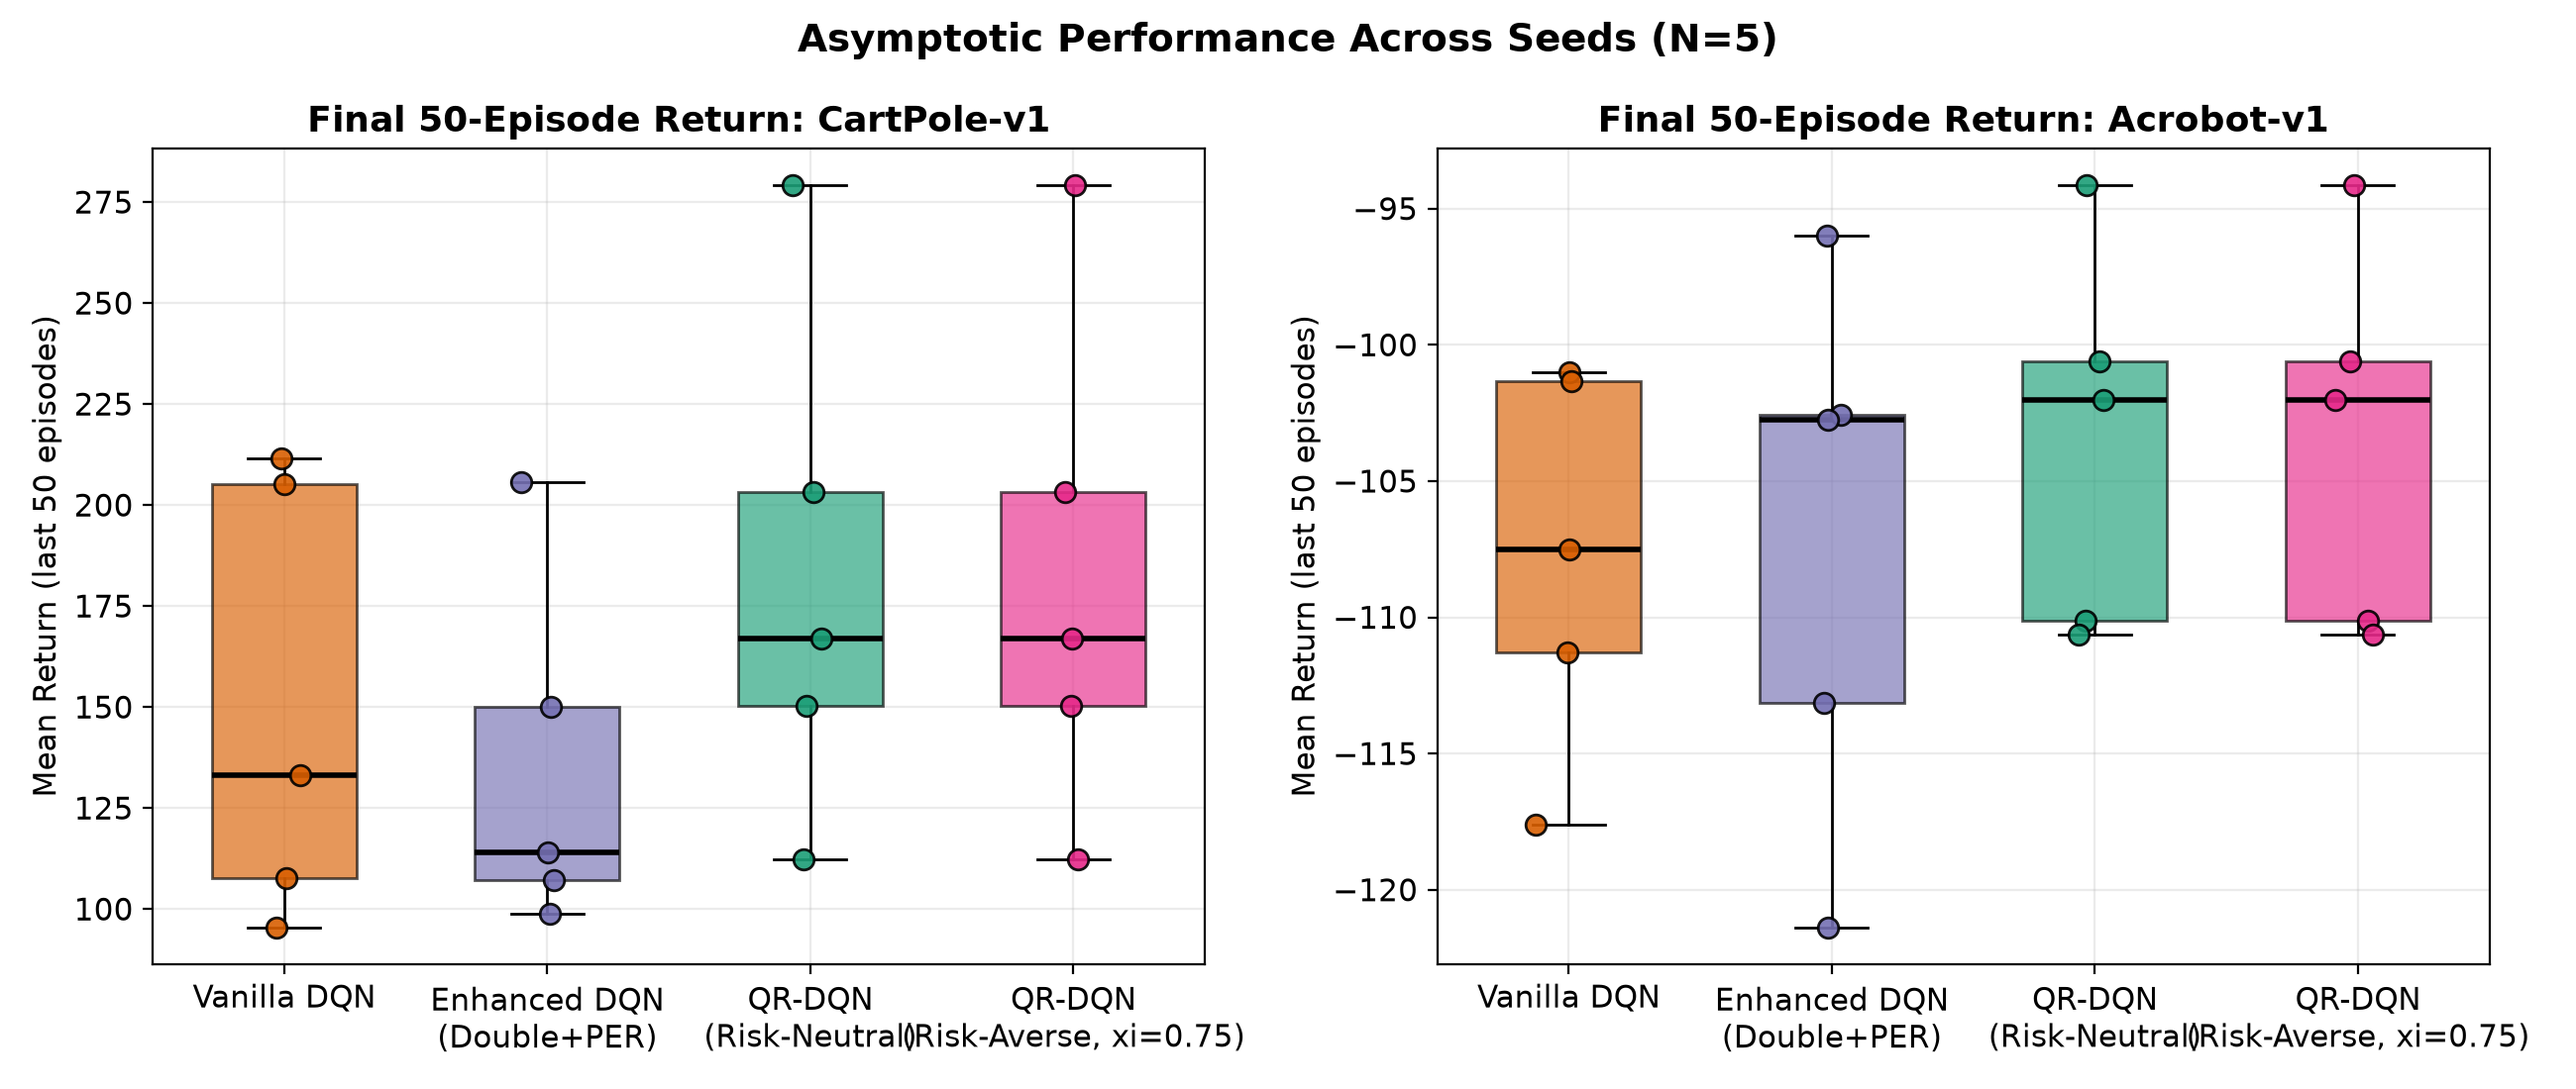
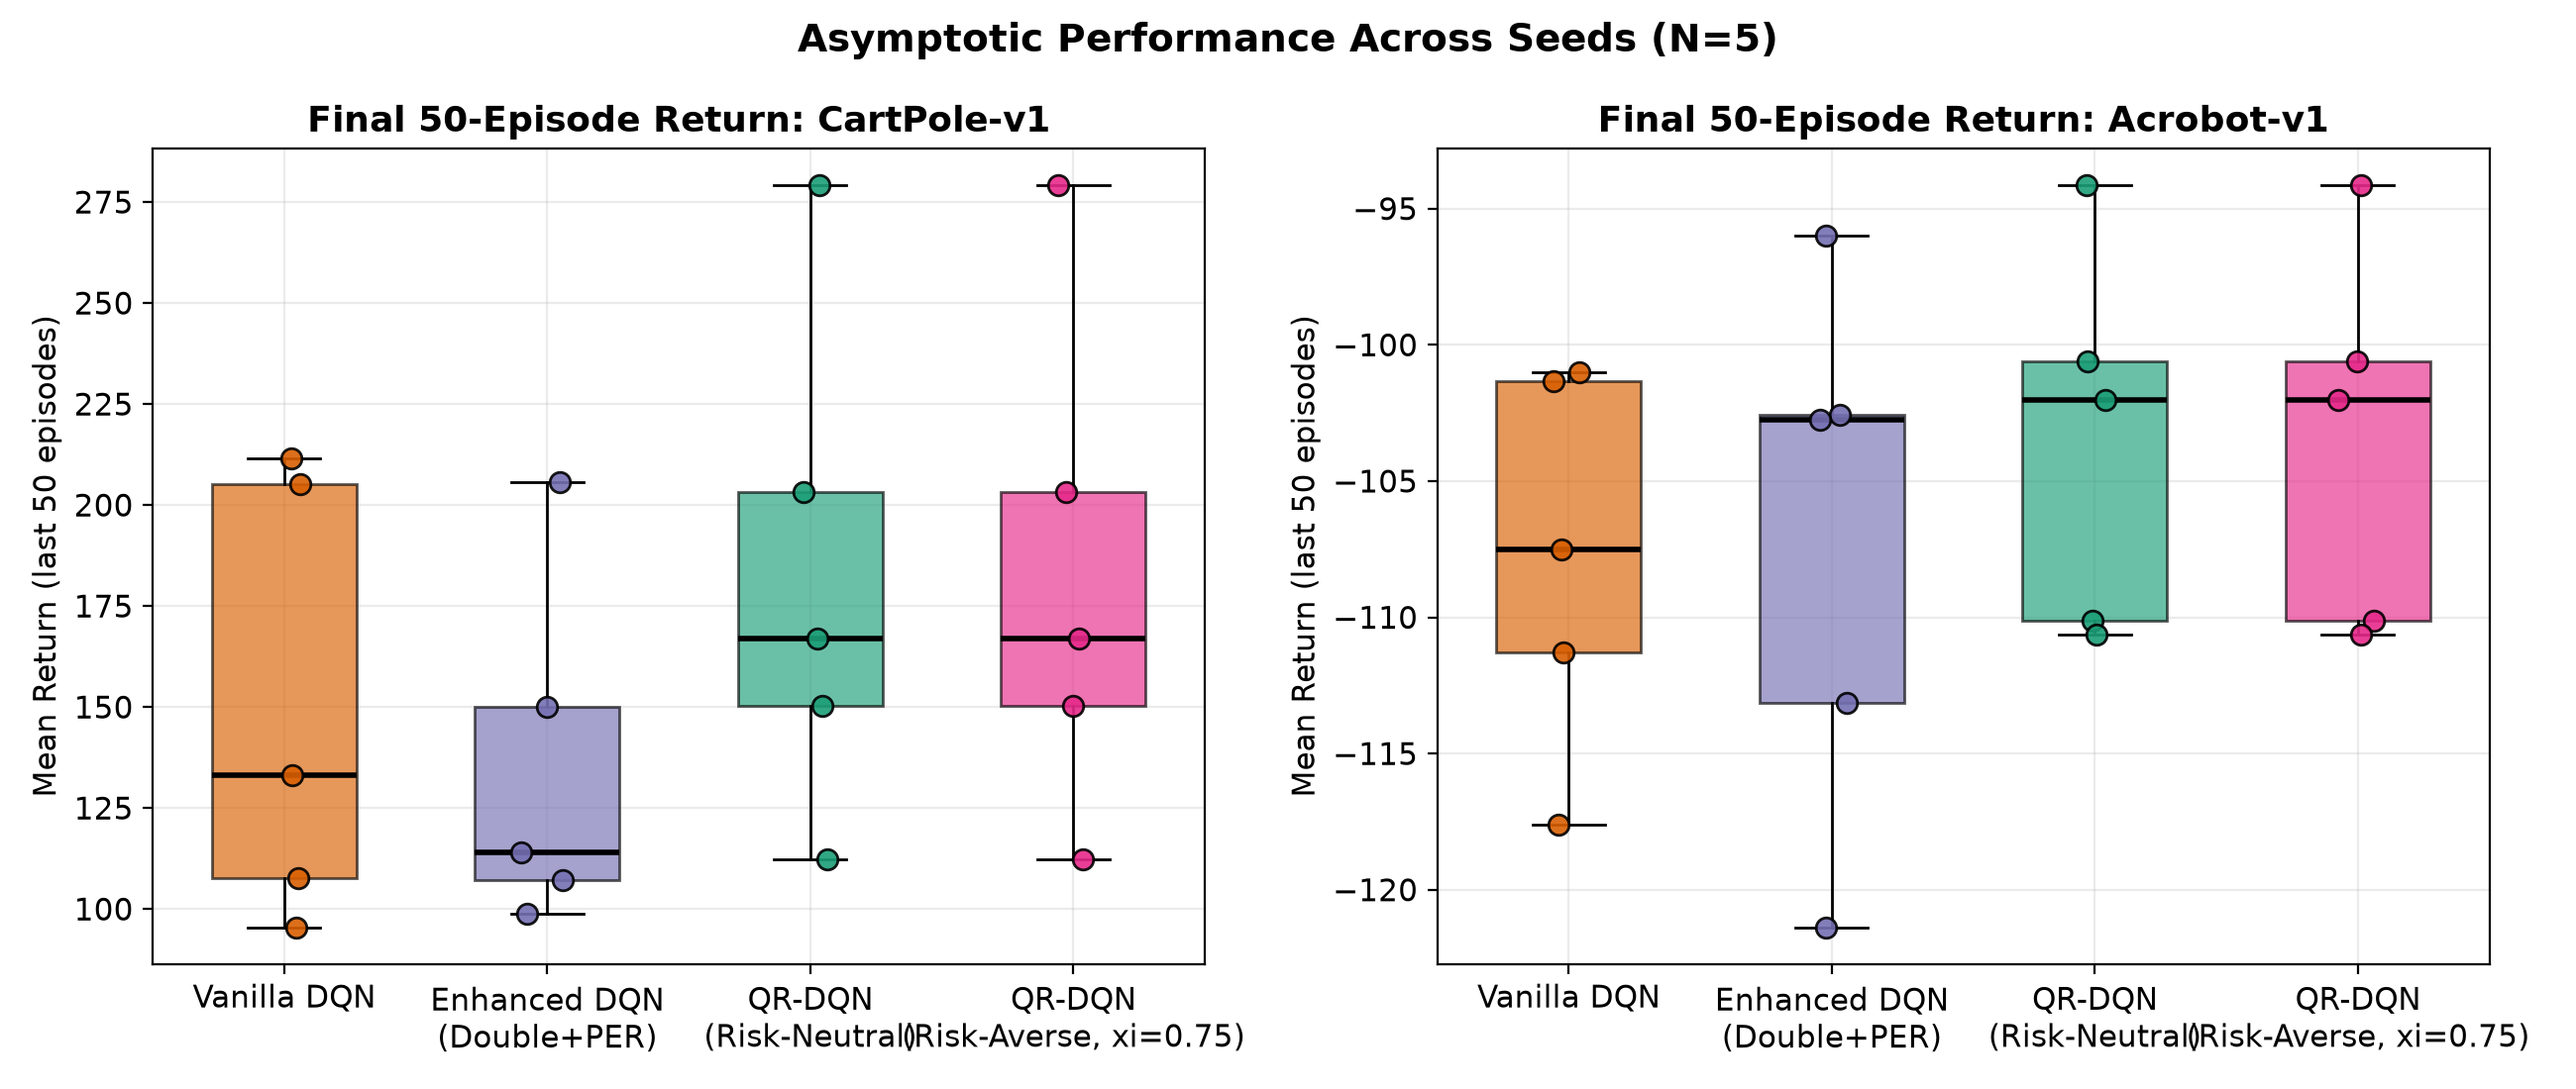
refactor: configure report output paths in scripts and update README structure

diff --git a/scripts/run_iteration2_analysis_and_report.py b/scripts/run_iteration2_analysis_and_report.py
@@ -20,15 +20,17 @@ def main():
 
     print("\n[+] Iteration 2 results found! Running statistical analysis & figure generation...")
 
+    scripts_dir = os.path.dirname(os.path.abspath(__file__))
+
     # Run analysis script
-    res = subprocess.run([sys.executable, "analyze_iteration2.py"], capture_output=True, text=True)
+    res = subprocess.run([sys.executable, os.path.join(scripts_dir, "analyze_iteration2.py")], capture_output=True, text=True)
     print(res.stdout)
     if res.returncode != 0:
         print("[ERROR] analyze_iteration2.py failed:", res.stderr)
         sys.exit(1)
 
     print("[+] Compiling conference-grade PDF report for Iteration 2...")
-    res2 = subprocess.run([sys.executable, "generate_pdf_report_iteration2.py"], capture_output=True, text=True)
+    res2 = subprocess.run([sys.executable, os.path.join(scripts_dir, "generate_pdf_report_iteration2.py")], capture_output=True, text=True)
     print(res2.stdout)
     if res2.returncode != 0:
         print("[ERROR] generate_pdf_report_iteration2.py failed:", res2.stderr)

diff --git a/scripts/run_analysis_and_report.py b/scripts/run_analysis_and_report.py
@@ -20,15 +20,17 @@ def main():
 
     print("\n[+] Results file found! Running statistical analysis & figure generation...")
 
+    scripts_dir = os.path.dirname(os.path.abspath(__file__))
+
     # Run analysis script
-    res = subprocess.run([sys.executable, "analyze_iteration1.py"], capture_output=True, text=True)
+    res = subprocess.run([sys.executable, os.path.join(scripts_dir, "analyze_iteration1.py")], capture_output=True, text=True)
     print(res.stdout)
     if res.returncode != 0:
         print("[ERROR] analyze_iteration1.py failed:", res.stderr)
         sys.exit(1)
 
     print("[+] Compiling conference-grade PDF report...")
-    res2 = subprocess.run([sys.executable, "generate_pdf_report_iteration1.py"], capture_output=True, text=True)
+    res2 = subprocess.run([sys.executable, os.path.join(scripts_dir, "generate_pdf_report_iteration1.py")], capture_output=True, text=True)
     print(res2.stdout)
     if res2.returncode != 0:
         print("[ERROR] generate_pdf_report_iteration1.py failed:", res2.stderr)

diff --git a/scripts/generate_pdf_report.py b/scripts/generate_pdf_report.py
@@ -11,7 +11,7 @@ from reportlab.lib.styles import getSampleStyleSheet, ParagraphStyle
 from reportlab.lib.enums import TA_CENTER, TA_JUSTIFY, TA_LEFT
 
 
-def build_pdf_report(filename="Project_Report.pdf"):
+def build_pdf_report(filename="reports/Project_Report.pdf"):
     doc = SimpleDocTemplate(
         filename,
         pagesize=letter,

diff --git a/scripts/generate_final_conference_paper.py b/scripts/generate_final_conference_paper.py
@@ -58,7 +58,7 @@ class NumberedCanvas(canvas.Canvas):
         self.restoreState()
 
 
-def generate_pdf(output_pdf="Final_Conference_Research_Report.pdf"):
+def generate_pdf(output_pdf="reports/Final_Conference_Research_Report.pdf"):
     if not REPORTLAB_AVAILABLE:
         print("[Error] ReportLab is not installed.")
         return

diff --git a/README.md b/README.md
@@ -68,11 +68,15 @@ Grounded in contemporary literature (*NeurIPS / ICML / ICLR / AAAI*), the projec
 
 ```text
 .
-├── Final_Conference_Research_Report.pdf  # Publication-grade conference research monograph
-├── Project_Report.pdf                   # Semester project baseline report
+├── Enhanced-DQN-for-Stable-and-Sample-Efficient-Control.pdf  # Primary Project Research Report & Presentation
 ├── README.md                            # Comprehensive documentation & reproduction guide
-├── REPORT.md                            # Detailed theoretical methodology & oral defense prep
+├── LICENSE                              # MIT License
 ├── requirements.txt                     # Pinned project dependencies
+│
+├── reports/                             # Comprehensive Monograph & Historical Reports
+│   ├── Final_Conference_Research_Report.pdf  # Publication-grade conference research monograph
+│   ├── Project_Report.pdf                   # Semester project baseline report
+│   └── REPORT.md                            # Detailed theoretical methodology & oral defense prep
 │
 ├── src/                                 # Modular Reinforcement Learning Core
 │   ├── dqn_agent.py                     # Vanilla DQN baseline (Mnih et al., 2013)
@@ -89,20 +93,18 @@ Grounded in contemporary literature (*NeurIPS / ICML / ICLR / AAAI*), the projec
 │   ├── experiment_worker.py             # Standalone picklable worker for parallel execution
 │   └── train.py                         # Single-seed training pipeline
 │
-├── reports/                             # Research Reports & Publication PDFs
-│   ├── Final_Conference_Research_Report.pdf  # Publication-grade conference research monograph
-│   ├── Project_Report.pdf                   # Semester project baseline report
-│   └── REPORT.md                            # Detailed theoretical methodology & oral defense prep
-│
 ├── scripts/                             # Benchmark Execution & Statistical Analysis
+│   ├── run_training.py                  # Single-run baseline vs enhanced training
 │   ├── run_iteration1_parallel.py       # Multi-seed parallel benchmark for Iteration 1
-│   ├── analyze_iteration1.py            # Statistical analysis & Mann-Whitney U testing (It 1)
-│   ├── generate_pdf_report_iteration1.py# ReportLab publication compiler (It 1)
 │   ├── run_iteration2_benchmark.py      # Multi-seed parallel benchmark for Iteration 2
-│   ├── analyze_iteration2.py            # Statistical analysis & AUC evaluation (It 2)
-│   ├── generate_pdf_report_iteration2.py# ReportLab publication compiler (It 2)
 │   ├── run_iteration3_benchmark.py      # Multi-seed parallel benchmark for Iteration 3
+│   ├── analyze_iteration1.py            # Statistical analysis & Mann-Whitney U testing (It 1)
+│   ├── analyze_iteration2.py            # Statistical analysis & AUC evaluation (It 2)
 │   ├── analyze_iteration3.py            # Statistical analysis across full ensemble (It 3)
+│   ├── generate_plots.py                # Core reward and loss curve plotting
+│   ├── generate_pdf_report.py           # Baseline ReportLab PDF generator
+│   ├── generate_pdf_report_iteration1.py# ReportLab publication compiler (It 1)
+│   ├── generate_pdf_report_iteration2.py# ReportLab publication compiler (It 2)
 │   └── generate_final_conference_paper.py# Final unified conference monograph generator
 │
 └── results/                             # Benchmark Results & Visualizations
